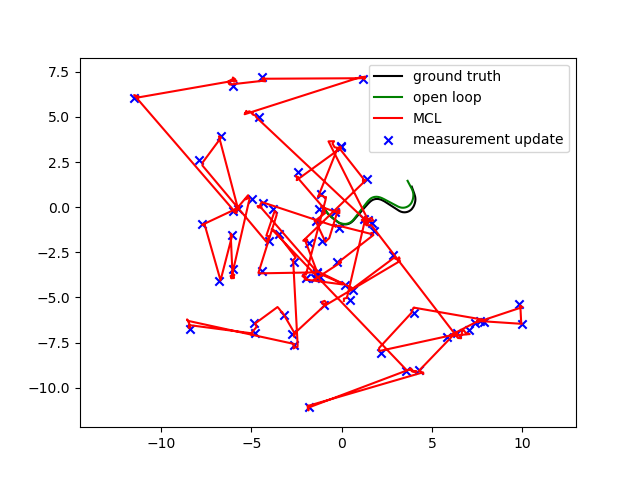
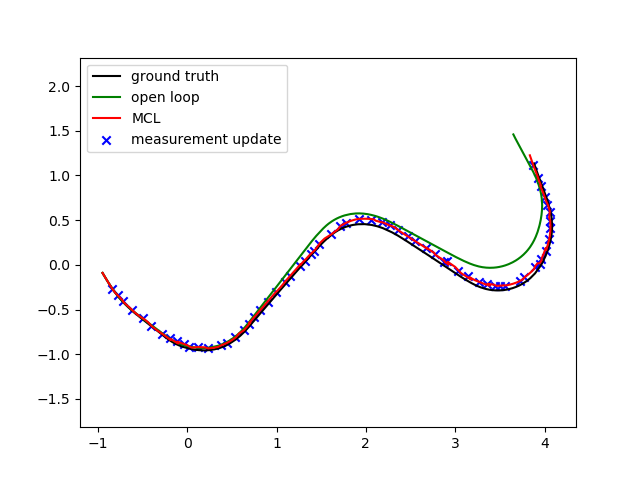
fixed bugs, P3 hopefully working now

diff --git a/HW4/particle_filter.py b/HW4/particle_filter.py
@@ -59,13 +59,11 @@ class ParticleFilter(object):
         # TODO: Update self.xs.
         # Hint: Call self.transition_model().
         # Hint: You may find np.random.multivariate_normal useful.
-        # print(u)
-        us = np.array([u,]*self.M)
-        # print(us)
-        new_means = self.transition_model(us,dt)
-        # new_x = np.zeros_like(self.xs)
-        for i in range(self.M):
-            self.xs[i,:] = np.random.multivariate_normal(new_means[i,:],np.eye(3))
+        epsilon = np.random.multivariate_normal(mean=np.zeros_like(u),
+                                                cov=self.R * np.array(dt),
+                                                size=self.M)
+        us = np.array([u,] * self.M) + epsilon
+        self.xs = self.transition_model(us, dt)
         ########## Code ends here ##########
 
     def transition_model(self, us, dt):
@@ -120,10 +118,10 @@ class ParticleFilter(object):
         #       without for loops. You may find np.linspace(), np.cumsum(), and
         #       np.searchsorted() useful. This results in a ~10x speedup.
         cum_weight = np.cumsum(ws)
-        u = cum_weight[-1] * (r + \
-            np.linspace(start=0, stop=1, num=self.M, endpoint=False))
-        idx_list = np.searchsorted(cum_weight, u)
-        self.xs = xs[idx_list]
+        m = np.linspace(start=0, stop=self.M, num=self.M, endpoint=False)
+        idx_list = np.searchsorted(cum_weight,
+                                   cum_weight[-1] * (r + m / self.M))
+        self.xs = xs[idx_list, :]
         self.ws = ws[idx_list]
         ########## Code ends here ##########
 
@@ -190,15 +188,40 @@ class MonteCarloLocalization(ParticleFilter):
         #       not call tb.compute_dynamics. You need to compute the idxs
         #       where abs(om) > EPSILON_OMEGA and the other idxs, then do separate 
         #       updates for them
-        M = us.shape[0]
-        g = np.zeros_like(self.xs)
-        for i in range(M):
-            state_val = self.xs[i,:]
-            u_val = us[i,:]
-            new_state = tb.compute_dynamics(state_val,u_val,dt,compute_jacobians=False)
-            g[i,:] = new_state 
-        ########## Code ends here ##########
 
+        ########## Code ends here ##########
+        def limit_g(us, dt):
+            x, y, theta = self.xs[:, 0], self.xs[:, 1], self.xs[:, 2]
+            V, om = us[:, 0], us[:, 1]
+            sin_t = np.sin(theta) + np.sin(theta + om * dt)
+            cos_t = np.cos(theta) + np.cos(theta + om * dt)
+
+            x_new = x + 0.5 * V * cos_t * dt
+            y_new = y + 0.5 * V * sin_t * dt
+            theta_new = theta + om * dt
+
+            return np.stack((x_new, y_new, theta_new), axis=-1)
+
+        def regular_g(us, dt):
+            x, y, theta = self.xs[:, 0], self.xs[:, 1], self.xs[:, 2]
+            V, om = us[:, 0], us[:, 1]
+
+            theta_new = theta + om * dt
+            sin_th = np.sin(theta_new)
+            sin_th_p = np.sin(theta)
+            cos_th = np.cos(theta_new)
+            cos_th_p = np.cos(theta)
+            om_inv = 1.0 / np.maximum(np.abs(om), EPSILON_OMEGA) * np.sign(om)
+            V_om_inv = V * om_inv
+            # compute g
+            x_new = x + V_om_inv * (sin_th - sin_th_p)
+            y_new = y + V_om_inv * (cos_th_p - cos_th)
+
+            return np.stack((x_new, y_new, theta_new), axis=-1)
+
+        g = np.where(np.expand_dims(np.abs(us[:, 1]), axis=1) < EPSILON_OMEGA,
+                     limit_g(us, dt),
+                     regular_g(us, dt))
         return g
 
     def measurement_update(self, z_raw, Q_raw):
@@ -249,8 +272,6 @@ class MonteCarloLocalization(ParticleFilter):
         # TODO: Compute Q.
         # Hint: You might find scipy.linalg.block_diag() useful
         Q = scipy.linalg.block_diag(*Q_raw)
-
-
         ########## Code ends here ##########
 
         return vs, Q
@@ -300,19 +321,20 @@ class MonteCarloLocalization(ParticleFilter):
         I = Q_raw.shape[0]
         J = self.map_lines.shape[1]
         
-        s_data = self.compute_predicted_measurements()
+        hs = self.compute_predicted_measurements()
         vs = np.zeros((self.M,I,2))
         for m in range(self.M): # M
             for i in range(I): # I
                 d = None
                 best_vij = None
                 for j in range(J): # J
-                    vij =  np.array([angle_diff(s_data[m, 0, j], z_raw[0,i]), s_data[m, 1, j] - z_raw[1,i]])
+                    vij =  np.array([angle_diff(z_raw[0,i], hs[m, 0, j]),
+                                     z_raw[1,i] - hs[m, 1, j]])
                     new_d = vij@np.linalg.inv(Q_raw[i])@vij.T
                     if d is None or new_d < d:
                         d = new_d
                         best_vij = vij
-                vs[m,i,:] = -1*best_vij
+                vs[m,i,:] = best_vij
         ########## Code ends here ##########
 
         # Reshape [M x I x 2] array to [M x 2I]
@@ -342,8 +364,7 @@ class MonteCarloLocalization(ParticleFilter):
         # Hint: For the faster solution, it does not call tb.transform_line_to_scanner_frame()
         #       or tb.normalize_line_parameters(), but reimplement these steps vectorized.
         J = self.map_lines.shape[1]
-        hs = np.zeros((self.M,2,J))
-
+        hs = np.zeros((self.M, 2, J))
         for m in range(self.M):
             for j in range(J):
                 h = tb.transform_line_to_scanner_frame(self.map_lines[:, j],
